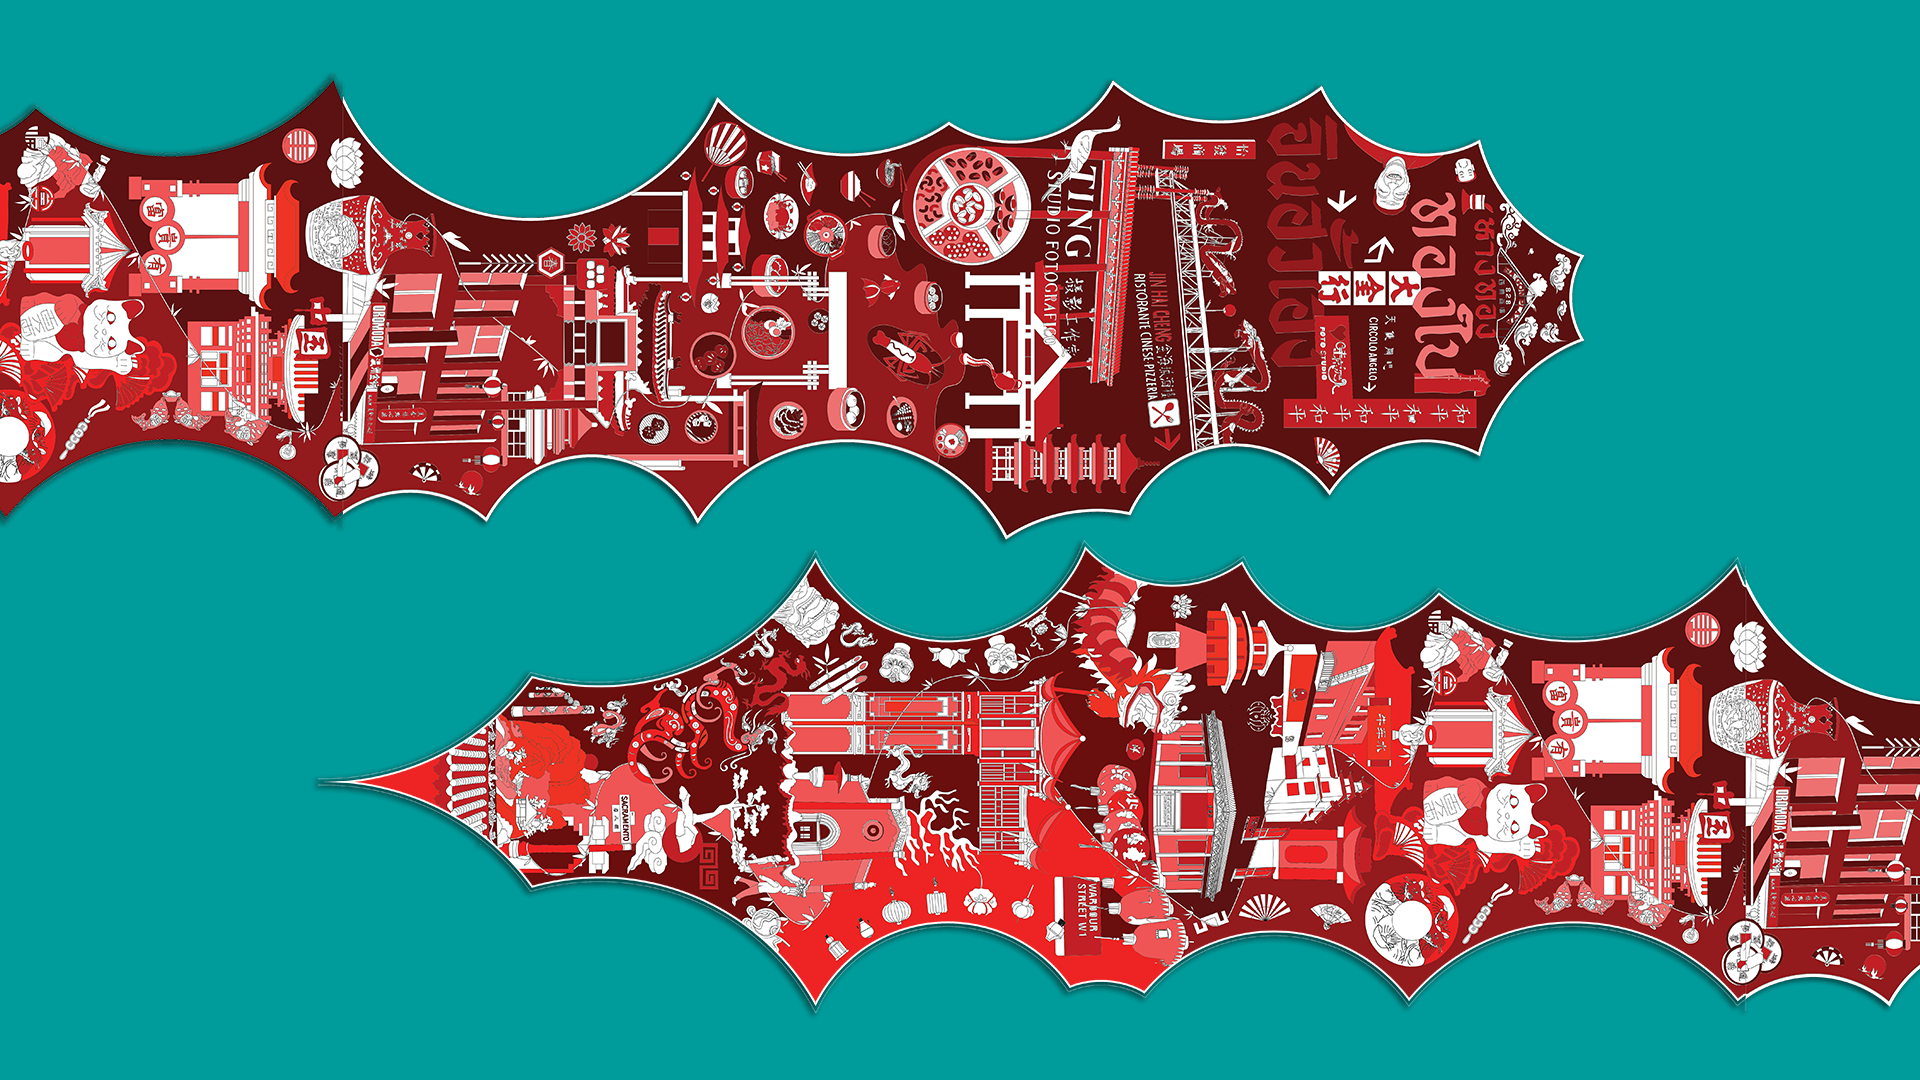
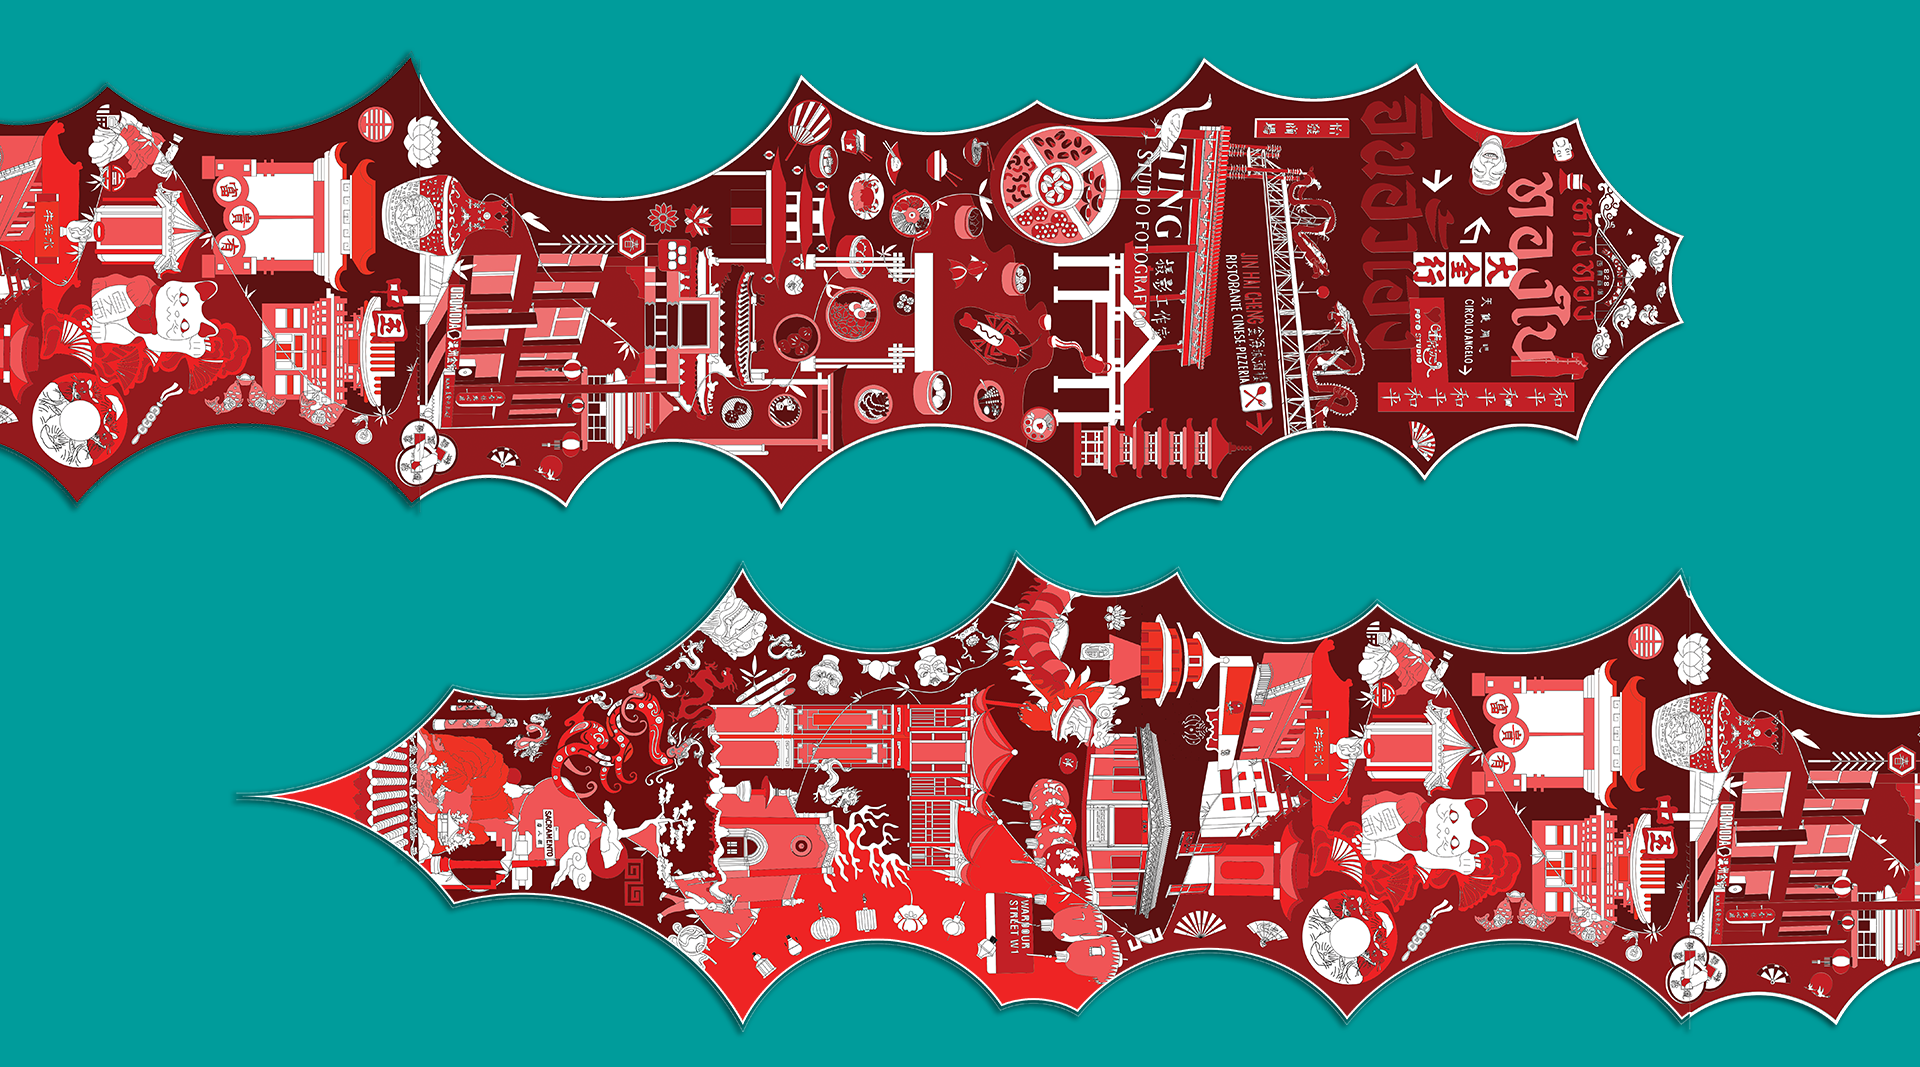
backand nect button

diff --git a/baconbae.html b/baconbae.html
@@ -47,7 +47,7 @@
     </nav>
     <!-- COVER -->
     <div class="container-fluid page-top-banner">
-        <img class="page-top-banner-image" src="assets/img/portfolio/baconbae/cover-bb.gif" alt="..." />
+        <img class="page-top-banner-image" src="assets/img/portfolio/cover/cover-bb.png" alt="..." />
     </div>
 
     <div class="container">
@@ -56,15 +56,21 @@
             <p class="text-center">Bacon Bae</p>
             <p class="display-8">
                 <b class="display-7">Background: </b>
-                I had the privilege of contributing to the Bacon Bae project, an NFT initiative based in Australia.
+                Bacon Bae is an NFT project in which I actively participated as a member of the social media team,
+                focused on fostering engagement and building a vibrant community in preparation for its launch on
+                OpenSea
             </p>
             <p class="display-8">
                 <b class="display-7">Target Audience: </b>
-                To cater to our foreign target audience, we purposefully crafted Bacon Bae as a relatable character for young Americans and international individuals. Our ongoing plan involves showcasing Bacon Bae engaging in various everyday American activities, such as surfing, grocery shopping, and sunbathing, on a weekly basis.
+                To cater to our foreign target audience, we purposefully crafted Bacon Bae as a relatable character for
+                young Americans and international individuals. Our ongoing plan involves showcasing Bacon Bae engaging
+                in various everyday American activities, such as surfing, grocery shopping, and sunbathing, on a weekly
+                basis.
             </p>
             <p class="display-8">
                 <b class="display-7">Role and Responsibilities: </b>
-                My responsibility entailed designing marketing posts intended for distribution on Twitter and Discord platforms.
+                My responsibility entailed designing marketing posts intended for distribution on Twitter and Discord
+                platforms.
             </p>
         </div>
         <div class="justify-content-center align-items-center">
@@ -75,60 +81,73 @@
                 <i class="fa-brands fa-twitter"></i>
                 Join Twitter
             </a>
-        </a> <a class="btn btn-xl btn-outline-dark " href="https://opensea.io/BaconBae">
-            Opensea
-        </a>
+            </a> <a class="btn btn-xl btn-outline-dark " href="https://opensea.io/BaconBae">
+                Opensea
+            </a>
         </div>
-        
+
 
         <!--BODY-->
         <div class="row tile">
-            <div class="col-md-12 col-sm-6 tile-item tile mt-5 mb-5">             
+            <div class="col-md-12 col-sm-6 tile-item tile mt-5 mb-5">
                 <img class="img-fluid tile-image" src="assets/img/portfolio/baconbae/bb01.gif" alt="..." />
             </div>
         </div>
         <div class="row tile">
-            <div class="col-md-12 col-sm-6 tile-item tile mt-5 mb-5">             
+            <div class="col-md-12 col-sm-6 tile-item tile mt-5 mb-5">
                 <img class="img-fluid tile-image" src="assets/img/portfolio/baconbae/bb02.gif" alt="..." />
             </div>
         </div>
         <div class="row tile">
-            <div class="col-md-12 col-sm-6 tile-item tile mt-5 mb-5">             
+            <div class="col-md-12 col-sm-6 tile-item tile mt-5 mb-5">
                 <img class="img-fluid tile-image" src="assets/img/portfolio/baconbae/bb03.png" alt="..." />
             </div>
         </div>
         <div class="row tile">
-            <div class="col-md-12 col-sm-6 tile-item tile mt-5 mb-5">             
+            <div class="col-md-12 col-sm-6 tile-item tile mt-5 mb-5">
                 <img class="img-fluid tile-image" src="assets/img/portfolio/baconbae/bb04.gif" alt="..." />
             </div>
         </div>
         <div class="row tile">
-            <div class="col-md-12 col-sm-6 tile-item tile  mt-5 mb-5">             
+            <div class="col-md-12 col-sm-6 tile-item tile  mt-5 mb-5">
                 <img class="img-fluid tile-image" src="assets/img/portfolio/baconbae/bb05.png" alt="..." />
             </div>
         </div>
         <div class="row tile">
-            <div class="col-md-12 col-sm-6 tile-item tile  mt-5 mb-5">             
+            <div class="col-md-12 col-sm-6 tile-item tile  mt-5 mb-5">
                 <img class="img-fluid tile-image" src="assets/img/portfolio/baconbae/bb06.gif" alt="..." />
             </div>
         </div>
         <div class="row tile">
-            <div class="col-md-12 col-sm-6 tile-item tile  mt-5 mb-5">             
+            <div class="col-md-12 col-sm-6 tile-item tile  mt-5 mb-5">
                 <img class="img-fluid tile-image" src="assets/img/portfolio/baconbae/bb08.png" alt="..." />
             </div>
         </div>
         <div class="row tile">
-            <div class="col-md-12 col-sm-6 tile-item tile  mt-5 mb-5">             
+            <div class="col-md-12 col-sm-6 tile-item tile  mt-5 mb-5">
                 <img class="img-fluid tile-image" src="assets/img/portfolio/baconbae/bb07.png" alt="..." />
             </div>
         </div>
-        
 
-
-        
-
-        
 </body>
+<!-- NEXT and PREVIOUS BUTTON-->
+
+<ul class="nav nav-underline mb-5 mt-5 justify-content-center">
+    <li class="nav-item ms-5 me-5">
+        <a class="nav-link text-center" style="text-decoration: none; color: black" href="e-commerce.html">
+            <p class="display-8  font-ibm-bold btn btn-xl btn-outline-dark text-center">E-commerce</h1>
+            <p>Previous Project</p>
+        </a>
+    </li>
+    <li class="nav-item ms-5 me-5">
+        <a class="nav-link text-center" style="text-decoration: none; color: black" href="chinat.html">
+            <p class="display-8  font-ibm-bold btn btn-xl btn-outline-dark text-center">Chinatown effects</h1>
+            <p>Next Project</p>
+        </a>
+    </li>
+</ul>
+
+
 <footer class="footer text-center">
     <div class="container">
         <div class="row">
@@ -153,9 +172,10 @@
         </div>
     </div>
 </footer>
+
 </html>
 
-        <!-- Bootstrap core JS-->
-        <script src="https://cdn.jsdelivr.net/npm/bootstrap@5.2.3/dist/js/bootstrap.bundle.min.js"></script>
-        <!-- Core theme JS-->
-        <script src="js/scripts.js"></script>
+<!-- Bootstrap core JS-->
+<script src="https://cdn.jsdelivr.net/npm/bootstrap@5.2.3/dist/js/bootstrap.bundle.min.js"></script>
+<!-- Core theme JS-->
+<script src="js/scripts.js"></script>

diff --git a/index.html b/index.html
@@ -114,6 +114,24 @@
     <!-- Work Catagory section-->
 
     <div class="row tile" id="uxui">
+        <div class="row tile" id="web-design">
+            <div class="col-md-6 col-sm-1 tile-item tile" onclick="location.href='login.html';">
+                <div class="tile-item-caption d-flex align-items-center justify-content-center h-100 w-100">
+                    <div class="text-white h1">Farm Pro
+                        <p class="display-7">One stop service agritect tool , officer focused</p>
+                    </div>
+                </div>
+                <img class="img-fluid tile-image" src="assets/img/portfolio/cover-fp.png" alt="..." />
+            </div>
+            <div class="col-md-6 col-sm-1 tile-item tile" onclick="location.href='login.html';">
+                <div class="tile-item-caption d-flex align-items-center justify-content-center h-100 w-100">
+                    <div class="text-white h1">Farm one
+                        <p class="display-7">One stop service agritect tool , farmer focused</p>
+                    </div>
+                </div>
+                <img class="img-fluid tile-image" src="assets/img/portfolio/cover-fo.png" alt="..." />
+            </div>
+        </div>
         <div class="col-md-4 col-sm-1 tile-item tile" onclick="location.href='login.html';">
             <div
                 class="tile-item-caption d-flex align-items-center justify-content-center h-100 w-100 text-white">
@@ -163,7 +181,7 @@
         <div class="col-md-4 col-sm-1 tile-item tile" onclick="location.href='e-commerce.html';">
             <div class="tile-item-caption d-flex align-items-center justify-content-center h-100 w-100">
                 <div class="text-white h1">E-commerce
-                    <p class="display-7">One stop service agritect tools</p>
+                    <p class="display-7">set of artworks,designed for brands accross SEA</p>
                 </div>
             </div>
             <img class="img-fluid tile-image" src="assets/img/portfolio/cover-crea.jpg" alt="..." />
@@ -188,11 +206,11 @@
     <div class="row tile" id="web-design">
         <div class="col-md-6 col-sm-1 tile-item tile" onclick="location.href='login.html';">
             <div class="tile-item-caption d-flex align-items-center justify-content-center h-100 w-100">
-                <div class="text-white h1">Motion design
+                <div class="text-white h1">ICFA
                     <p class="display-7">Currently working on this project , there's no official outcome yet</p>
                 </div>
             </div>
-            <img class="img-fluid tile-image" src="assets/img/portfolio/cover-un.jpg" alt="..." />
+            <img class="img-fluid tile-image" src="assets/img/portfolio/cover-icfa.png" alt="..." />
         </div>
         <div class="col-md-6 col-sm-1 tile-item tile" onclick="location.href='login.html';">
             <div class="tile-item-caption d-flex align-items-center justify-content-center h-100 w-100">
@@ -200,7 +218,7 @@
                     <p class="display-7">Currently working on this project , there's no official outcome yet</p>
                 </div>
             </div>
-            <img class="img-fluid tile-image" src="assets/img/portfolio/tbc.jpg" alt="..." />
+            <img class="img-fluid tile-image" src="assets/img/portfolio/cover-coding.png" alt="..." />
         </div>
     </div>
 

diff --git a/chinat.html b/chinat.html
@@ -47,7 +47,7 @@
     </nav>
     <!-- COVER -->
     <div class="container-fluid page-top-banner">
-        <img class="page-top-banner-image" src="assets/img/portfolio/cover/cover-baconbae.png" alt="..." />
+        <img class="page-top-banner-image" src="assets/img/portfolio/cover/cover-ct.png" alt="..." />
     </div>
 
     <div class="container">
@@ -250,6 +250,22 @@
         <img class="img-fluid tile-image" style="max-width:50%;" src="assets/img/portfolio/chinat/ct_finalwork2.gif" alt="..." />
             
         </div>
+        <!-- NEXT and PREVIOUS BUTTON-->
+
+<ul class="nav nav-underline mb-5 mt-5 justify-content-center">
+    <li class="nav-item ms-5 me-5">
+        <a class="nav-link text-center" style="text-decoration: none; color: black" href="baconbae.html">
+            <p class="display-8  font-ibm-bold btn btn-xl btn-outline-dark text-center">Bacon Bae</h1>
+            <p>Previous Project</p>
+        </a>
+    </li>
+    <li class="nav-item ms-5 me-5">
+        <a class="nav-link text-center" style="text-decoration: none; color: black" href="chinat.html">
+            <p class="display-8  font-ibm-bold btn btn-xl btn-outline-dark text-center">ICFA project</h1>
+            <p>Next Project</p>
+        </a>
+    </li>
+</ul>
 
 
 

diff --git a/css/styles.css b/css/styles.css
@@ -13068,8 +13068,8 @@ html {
 
 .page-top-banner-image {
   width: 100%;
-  min-height: 50vh;
-  max-height: 75vh;
+  min-height: 60vh;
+  max-height: 85vh;
   object-fit: cover;
   object-position: center;
 }
